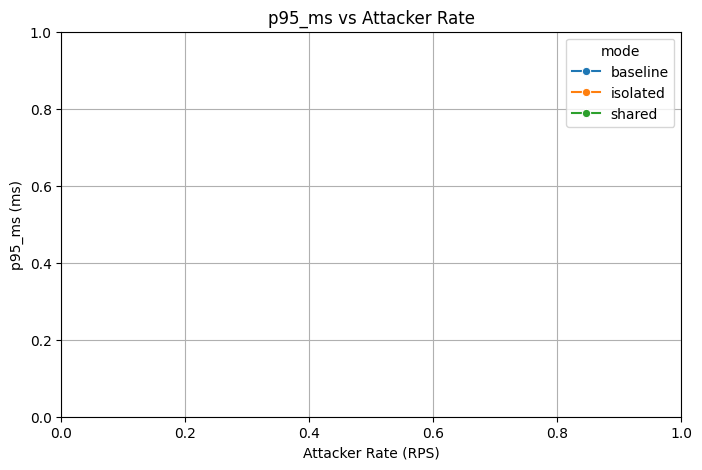
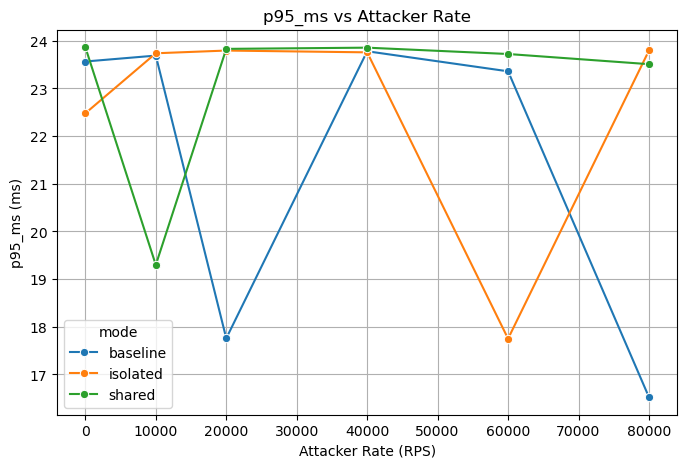
update

diff --git a/scripts/aggregate_results.py b/scripts/aggregate_results.py
@@ -1,119 +1,110 @@
 #!/usr/bin/env python3
-import json
-import re
-from pathlib import Path
 import csv
+import re
 import sys
+from pathlib import Path
 
 SCRIPT_DIR = Path(__file__).resolve().parent
 REPO_ROOT = SCRIPT_DIR.parent
 RESULT_DIR = REPO_ROOT / 'ebpf_research' / 'results' / 'raw'
 OUT_CSV = REPO_ROOT / 'ebpf_research' / 'sidecar_vs_sidecarless_metrics.csv'
 
-def find_value(obj, keys):
-    if isinstance(obj, dict):
-        for k, v in obj.items():
-            if k.lower() in keys:
-                return v
-            r = find_value(v, keys)
-            if r is not None:
-                return r
-    elif isinstance(obj, list):
-        for item in obj:
-            r = find_value(item, keys)
-            if r is not None:
-                return r
-    return None
 
-def parse_fortio(path):
-    with open(path) as f:
-        j = json.load(f)
-    # keys to look for
-    qps = find_value(j, {'actualqps','qps','actual_qps','actual_qps'})
-    count = find_value(j, {'count','requests','numreq','nrequests'})
-    p50 = find_value(j, {'p50','P50','50pct','p50_ms','p50_sec'})
-    p95 = find_value(j, {'p95','P95','95pct','p95_ms'})
-    p99 = find_value(j, {'p99','P99','99pct','p99_ms'})
-    p999 = find_value(j, {'p999','P999','999pct','p999_ms'})
-    # convert None to empty
-    return {
-        'qps': float(qps) if qps is not None else None,
-        'count': int(count) if count is not None else None,
-        'p50_ms': float(p50)*1000 if isinstance(p50, (int,float)) and p50<10 else (float(p50) if p50 is not None else None),
-        'p95_ms': float(p95)*1000 if isinstance(p95, (int,float)) and p95<10 else (float(p95) if p95 is not None else None),
-        'p99_ms': float(p99)*1000 if isinstance(p99, (int,float)) and p99<10 else (float(p99) if p99 is not None else None),
-        'p999_ms': float(p999)*1000 if isinstance(p999, (int,float)) and p999<10 else (float(p999) if p999 is not None else None),
-    }
-
-def parse_wrk(path):
+def parse_key_value_log(path):
     text = Path(path).read_text()
-    m = re.search(r'Requests/sec:\s*([0-9.]+)', text)
-    qps = float(m.group(1)) if m else None
-    return {'attacker_qps': qps}
 
-def parse_attacker_fortio(path):
-    with open(path) as f:
-        j = json.load(f)
-    qps = find_value(j, {'actualqps','qps','actual_qps'})
-    p50 = find_value(j, {'p50','P50','50pct','p50_ms','p50_sec'})
-    p95 = find_value(j, {'p95','P95','95pct','p95_ms'})
-    p99 = find_value(j, {'p99','P99','99pct','p99_ms'})
-    p999 = find_value(j, {'p999','P999','999pct','p999_ms'})
+    def grab(pattern):
+        match = re.search(pattern, text, re.MULTILINE)
+        return float(match.group(1)) if match else None
+
     return {
-        'attacker_qps': float(qps) if qps is not None else None,
-        'attacker_p50_ms': float(p50)*1000 if isinstance(p50, (int,float)) and p50 < 10 else (float(p50) if p50 is not None else None),
-        'attacker_p95_ms': float(p95)*1000 if isinstance(p95, (int,float)) and p95 < 10 else (float(p95) if p95 is not None else None),
-        'attacker_p99_ms': float(p99)*1000 if isinstance(p99, (int,float)) and p99 < 10 else (float(p99) if p99 is not None else None),
-        'attacker_p999_ms': float(p999)*1000 if isinstance(p999, (int,float)) and p999 < 10 else (float(p999) if p999 is not None else None),
+        'target_qps': grab(r'^Target QPS:\s*([0-9.+-eE]+)\s*$'),
+        'actual_qps': grab(r'^Actual QPS:\s*([0-9.+-eE]+)\s*$'),
+        'p50_us': grab(r'^p50:\s*([0-9.+-eE]+)us\s*$'),
+        'p95_us': grab(r'^p95:\s*([0-9.+-eE]+)us\s*$'),
+        'p99_us': grab(r'^p99:\s*([0-9.+-eE]+)us\s*$'),
+        'p999_us': grab(r'^p99\.9:\s*([0-9.+-eE]+)us\s*$'),
     }
+
+
+def parse_bpftrace_histogram(path):
+    lines = Path(path).read_text().splitlines()
+    capture = False
+    histogram = []
+    for line in lines:
+        if '@lookup_latency_ns' in line:
+            capture = True
+            histogram.append(line.strip())
+            continue
+        if capture:
+            if not line.strip():
+                if histogram:
+                    break
+                continue
+            histogram.append(line.rstrip())
+    return ' | '.join(histogram) if histogram else ''
+
+
+def parse_run_name(name):
+    match = re.match(r'wrk2_(v\d+|adv)_(\w+)_(\d+)_(\d+)\.log$', name)
+    if not match:
+        return None
+    role = match.group(1)
+    mode = match.group(2)
+    rate = int(match.group(3))
+    ts = match.group(4)
+    return role, mode, rate, ts
+
 
 def discover():
     rows = []
-    for f in RESULT_DIR.glob('*'):
-        name = f.name
-        parts = name.split('_')
-        # filenames follow patterns used in sweep script
-        # fortio_v{n}_{mode}_{rate}_{ts}.json
-        if name.startswith('fortio_v') and name.endswith('.json'):
-            m = re.match(r'fortio_v(\d+)_(\w+)_(\d+)_(\d+)\.json', name)
-            if not m:
-                continue
-            victim = int(m.group(1))
-            mode = m.group(2)
-            rate = int(m.group(3))
-            data = parse_fortio(f)
-            row = {'mode': mode, 'attacker_rate': rate, 'victim': victim, 'fortio_file': str(f)}
-            row.update(data)
-            rows.append(row)
-        elif name.startswith('wrk_adv_') and name.endswith('.txt'):
-            m = re.match(r'wrk_adv_(\w+)_(\d+)_(\d+)\.txt', name)
-            if not m:
-                continue
-            mode = m.group(1)
-            rate = int(m.group(2))
-            data = parse_wrk(f)
-            row = {'mode': mode, 'attacker_rate': rate, 'victim': 'adv', 'wrk_file': str(f)}
-            row.update(data)
-            rows.append(row)
-        elif name.startswith('attacker_fortio_') and name.endswith('.json'):
-            m = re.match(r'attacker_fortio_(\w+)_(\d+)_(\d+)\.json', name)
-            if not m:
-                continue
-            mode = m.group(1)
-            rate = int(m.group(2))
-            data = parse_attacker_fortio(f)
-            row = {'mode': mode, 'attacker_rate': rate, 'victim': 'adv', 'attacker_file': str(f)}
-            row.update(data)
-            rows.append(row)
+    lookup_histograms = {}
+
+    for f in RESULT_DIR.glob('bpftrace_*.txt'):
+        match = re.match(r'bpftrace_(\w+)_(\d+)_(\d+)\.txt$', f.name)
+        if not match:
+            continue
+        key = (match.group(1), int(match.group(2)), match.group(3))
+        lookup_histograms[key] = parse_bpftrace_histogram(f)
+
+    for f in RESULT_DIR.glob('wrk2_*.log'):
+        parsed = parse_run_name(f.name)
+        if not parsed:
+            continue
+        role, mode, rate, ts = parsed
+        row = {
+            'mode': mode,
+            'attacker_rate': rate,
+            'victim': int(role[1:]) if role.startswith('v') else 'adv',
+            'wrk2_file': str(f),
+            'lookup_latency_ns_hist': lookup_histograms.get((mode, rate, ts), ''),
+        }
+        row.update(parse_key_value_log(f))
+        rows.append(row)
+
     return rows
 
+
 def write_csv(rows):
-    fieldnames = ['mode','attacker_rate','victim','qps','count','p50_ms','p95_ms','p99_ms','p999_ms','attacker_qps','attacker_p50_ms','attacker_p95_ms','attacker_p99_ms','attacker_p999_ms','fortio_file','wrk_file','attacker_file']
+    fieldnames = [
+        'mode',
+        'attacker_rate',
+        'victim',
+        'target_qps',
+        'actual_qps',
+        'p50_us',
+        'p95_us',
+        'p99_us',
+        'p999_us',
+        'wrk2_file',
+        'lookup_latency_ns_hist',
+    ]
     with open(OUT_CSV, 'w', newline='') as csvf:
-        w = csv.DictWriter(csvf, fieldnames=fieldnames)
-        w.writeheader()
-        for r in rows:
-            w.writerow({k: r.get(k, '') for k in fieldnames})
+        writer = csv.DictWriter(csvf, fieldnames=fieldnames)
+        writer.writeheader()
+        for row in rows:
+            writer.writerow({key: row.get(key, '') for key in fieldnames})
+
 
 def main():
     if not RESULT_DIR.exists():
@@ -125,6 +116,7 @@ def main():
         sys.exit(0)
     write_csv(rows)
     print('Wrote CSV to', OUT_CSV)
+
 
 if __name__ == '__main__':
     main()

diff --git a/scripts/plot_results.py b/scripts/plot_results.py
@@ -13,17 +13,18 @@ OUTDIR.mkdir(parents=True, exist_ok=True)
 def load():
     df = pd.read_csv(CSV)
     df['attacker_rate'] = pd.to_numeric(df['attacker_rate'], errors='coerce')
-    df['qps'] = pd.to_numeric(df['qps'], errors='coerce')
-    for col in ['p50_ms','p95_ms','p99_ms','p999_ms']:
+    df['target_qps'] = pd.to_numeric(df['target_qps'], errors='coerce')
+    df['actual_qps'] = pd.to_numeric(df['actual_qps'], errors='coerce')
+    for col in ['p50_us','p95_us','p99_us','p999_us']:
         if col in df.columns:
             df[col] = pd.to_numeric(df[col], errors='coerce')
     return df
 
 def plot_throughput(df):
     # aggregate victims by mode and rate
-    agg = df[df['victim']!='adv'].groupby(['mode','attacker_rate'])['qps'].sum().reset_index()
+    agg = df[df['victim']!='adv'].groupby(['mode','attacker_rate'])['actual_qps'].sum().reset_index()
     plt.figure(figsize=(8,5))
-    sns.lineplot(data=agg, x='attacker_rate', y='qps', hue='mode', marker='o')
+    sns.lineplot(data=agg, x='attacker_rate', y='actual_qps', hue='mode', marker='o')
     plt.xlabel('Attacker Rate (RPS)')
     plt.ylabel('Combined Victim Throughput (RPS)')
     plt.title('Throughput vs Attacker Rate')
@@ -31,13 +32,13 @@ def plot_throughput(df):
     plt.savefig(OUTDIR / 'throughput_vs_attacker_rate.png', bbox_inches='tight')
 
 def plot_percentiles(df):
-    pct_cols = ['p50_ms','p95_ms','p99_ms']
+    pct_cols = ['p50_us','p95_us','p99_us','p999_us']
     for col in pct_cols:
         agg = df[df['victim']!='adv'].groupby(['mode','attacker_rate'])[col].mean().reset_index()
         plt.figure(figsize=(8,5))
         sns.lineplot(data=agg, x='attacker_rate', y=col, hue='mode', marker='o')
         plt.xlabel('Attacker Rate (RPS)')
-        plt.ylabel(f'{col} (ms)')
+        plt.ylabel(f'{col} (us)')
         plt.title(f'{col} vs Attacker Rate')
         plt.grid(True)
         plt.savefig(OUTDIR / f'{col}_vs_attacker_rate.png', bbox_inches='tight')
